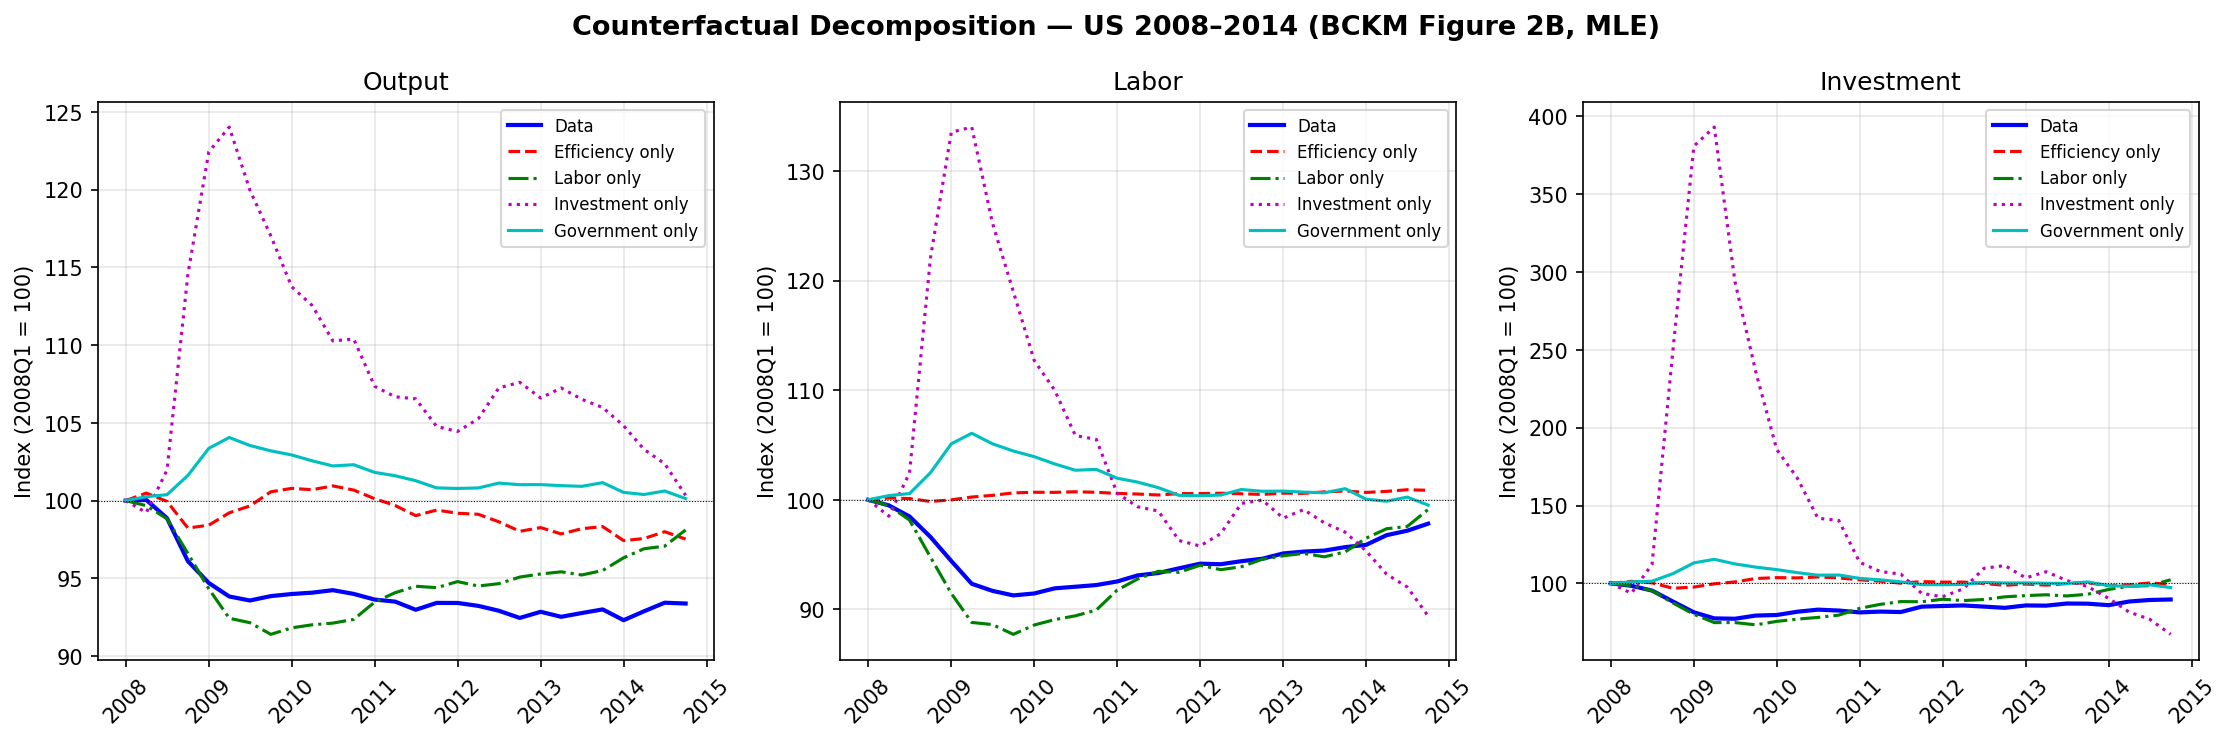
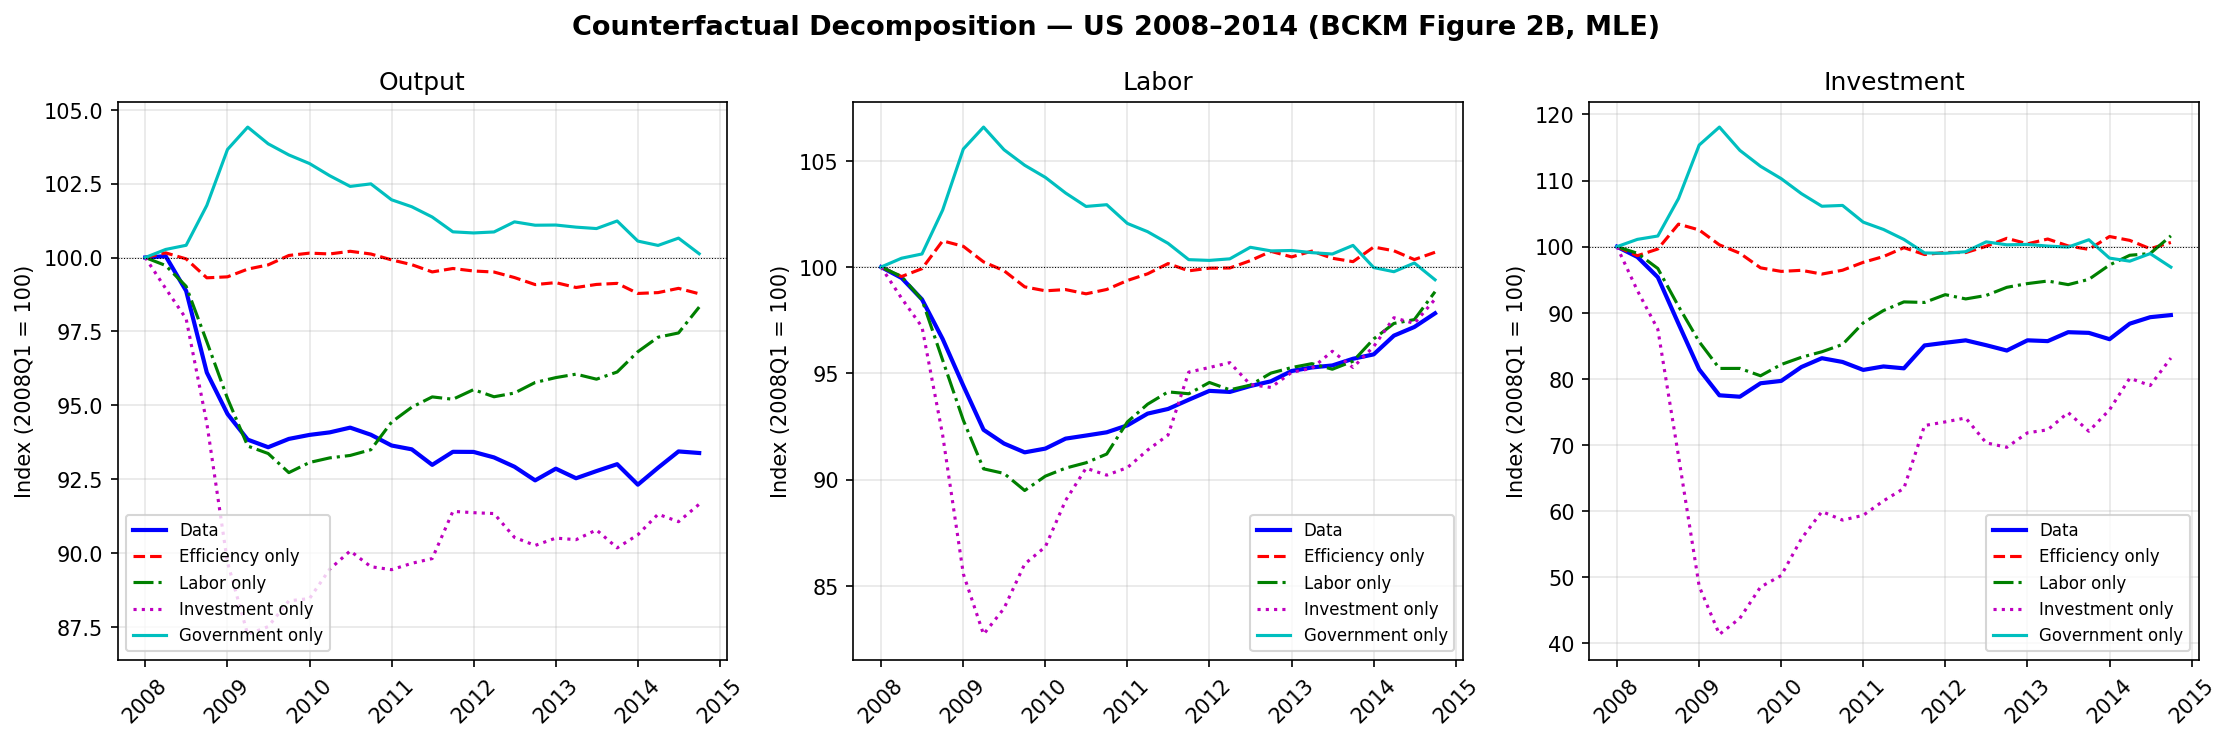
Step 3: phi0 observation offset + Sbar=0 (BCKM mleqadj architecture)
prepare_observables now subtracts phi0 = sample mean of raw observables,
so the SS misalignment between data and model (e.g., data x/y ≈ 0.29 vs
model 0.255 after the GI split) is absorbed by the obs equation rather
than by the wedge VAR intercept. Also forces Sbar=0 in the MLE: near
unit root, (I-P) is near-singular so a huge Sbar can coexist with a tiny
P_0 — the optimizer kept finding that spurious basin and accumulating
drift over T=140 periods, producing wrong-sign smoothed wedges. Fixing
Sbar=0 matches BCKM mleqadj.m end-to-end.

Result vs Step 2 commit:
- Investment wedge GR direction: improved → worsened (right sign now)
- VAR max |eig|: 1.005 → 0.987 (stationary)
- mean(taux smoothed): -0.158 → -0.013 (true mean-zero state)
- φ_y[g]: 0.92 → 0.18 (government wedge no longer dominates)
- LL: 1786 → 1779 (~7-unit drop confirms Sbar was identifying noise)

Outstanding: CF magnitudes overshoot (investment-only x trough = -0.95
vs data -0.29), likely the 144-unit optimized_LL vs final_LL gap still
on deck — addressed in next step (DARE Kalman gain).

diff --git a/bca_core/var_estimation.py b/bca_core/var_estimation.py
@@ -18,39 +18,53 @@ from .model import PrototypeModel
 def prepare_observables(
     df: pd.DataFrame,
     ss: dict,
-) -> np.ndarray:
+) -> tuple[np.ndarray, np.ndarray]:
     """
-    Convert detrended data to log-deviations from model steady state.
+    Build BCKM-style observables: centered log-deviations from model SS.
 
-    Follows BCKM (2016): normalize each observable by the model SS ratio
-    (in the same detrended units where y_dt ~ 1), rather than subtracting
-    sample means. This allows P_0 to absorb any small discrepancy between
-    the model SS and the data mean — which is how BCKM gets P_0 ≠ 0.
+    Raw step (deviation from model SS via ratio normalization):
+        y_raw = log(y_dt)
+        l_raw = log(l / l_ss)
+        x_raw = log(x_dt / (x_ss/y_ss))
+        g_raw = log(g_dt / (g_ss/y_ss))
 
-    - y: log(y_dt); already ~0 mean from OLS trend removal
-    - l: log(l / l_ss) where l_ss is the model SS labor
-    - x: log(x_dt / (x_ss/y_ss)); model's investment-output ratio as normalizer
-    - g: log(g_dt / (g_ss/y_ss)); model's government-output ratio as normalizer
+    Centering step (BCKM phi0 in the observation equation):
+        phi0 = mean(obs_raw, axis=0)
+        obs  = obs_raw - phi0
+
+    phi0 captures any model-vs-data SS misalignment that the ratio
+    normalization does not fully remove — most importantly, when the
+    data investment-to-output ratio differs from the model's (e.g.,
+    after the GI split, data x/y ≈ 0.29 vs model x/y ≈ 0.255). With
+    that offset absorbed into phi0, the latent state operates in true
+    deviations from the model SS and Sbar represents only the wedge-VAR
+    intercept — so counterfactuals (which run inactive wedges at the
+    VAR unconditional mean) no longer pick up the SS gap.
 
     Parameters
     ----------
-    df : DataFrame with columns y, c, x, g, l (from pipeline, detrended by y trend)
-    ss : steady-state dict from proto.steady_state()
+    df : DataFrame with columns y, c, x, g, l (detrended pipeline output).
+    ss : steady-state dict from proto.steady_state().
 
     Returns
     -------
-    T x 4 array: [y_hat, l_hat, x_hat, g_hat]
+    obs : T x 4 array, mean ≈ 0 by construction.
+    phi0 : 4-vector, the SS-misalignment offset (subtracted from obs_raw).
     """
-    x_ss_norm = ss["x"] / ss["y"]   # model's investment-output ratio
-    g_ss_norm = ss["g"] / ss["y"]   # model's government-output ratio
-    l_ss = ss["l"]                   # model's steady-state labor
+    x_ss_norm = ss["x"] / ss["y"]
+    g_ss_norm = ss["g"] / ss["y"]
+    l_ss = ss["l"]
 
     y_hat = np.log(df["y"].values)
     l_hat = np.log(df["l"].values) - np.log(l_ss)
     x_hat = np.log(df["x"].values) - np.log(x_ss_norm)
     g_hat = np.log(df["g"].values) - np.log(g_ss_norm)
 
-    return np.column_stack([y_hat, l_hat, x_hat, g_hat])
+    obs_raw = np.column_stack([y_hat, l_hat, x_hat, g_hat])
+    phi0 = obs_raw.mean(axis=0)
+    obs = obs_raw - phi0
+
+    return obs, phi0
 
 
 class BCAStateSpace(MLEModel):
@@ -420,14 +434,18 @@ def estimate_var_mle(
         return x_s
 
     # ── Parameter pack / unpack: theta = [Sbar(4), P_vec(16), Q_lower_tri(10)] ─
-    # Sbar is the unconditional mean of log wedges (BCKM parametrization).
-    # P_0 = (I - P) @ Sbar is derived inside — never stored directly in theta.
-    # This gives a better-conditioned landscape near the unit root: changes in
-    # Sbar map linearly to changes in P_0, avoiding the (I-P)^{-1} blow-up.
+    # BCKM mleqadj.m design: phi0 in the obs equation (prepare_observables)
+    # carries the model-vs-data SS gap. The wedge VAR has no separate intercept
+    # — Sbar is fixed at 0 and P_0 = (I-P)·0 = 0. The first 4 elements of theta
+    # are kept for backwards compatibility but are inert during optimization
+    # (gradient w.r.t. them is exactly zero, so L-BFGS-B leaves them alone).
+    # Forcing Sbar = 0 prevents the optimizer from finding spurious basins
+    # where (I-P) near-singularity lets a huge Sbar coexist with tiny P_0,
+    # producing smoothed states that drift away from the model SS.
     def _unpack(theta):
-        Sbar = theta[:4]
+        Sbar = np.zeros(4)                  # FIXED: no free VAR intercept
         P_var = theta[4:20].reshape(4, 4)
-        P_0 = (np.eye(4) - P_var) @ Sbar   # BCKM: P_0 = (I - P) * Sbar
+        P_0 = (np.eye(4) - P_var) @ Sbar    # = 0 by construction
         Q_chol = np.zeros((4, 4))
         idx = 20
         for i in range(4):
@@ -438,7 +456,7 @@ def estimate_var_mle(
 
     def _pack(Sbar, P_var, Q_chol):
         theta = np.empty(N_P)
-        theta[:4] = Sbar
+        theta[:4] = Sbar                    # ignored by _unpack; kept for shape parity
         theta[4:20] = P_var.ravel()
         idx = 20
         for i in range(4):
@@ -474,9 +492,10 @@ def estimate_var_mle(
         [-0.0045,  0.0449,  0.9675, -0.0426],
         [ 0.0063,  0.0017,  0.0016,  0.9945],
     ])
-    # P_0 from BCKM Table 9; convert to Sbar = inv(I - P) @ P_0
+    # Sbar fixed at 0 (see _unpack note). _P_0_bckm kept here only for
+    # documentation of the BCKM target; not used to seed the optimizer.
     _P_0_bckm = np.array([0.0140, 0.0008, 0.0129, -0.0137])
-    _Sbar_bckm = np.linalg.solve(np.eye(4) - _P_bckm, _P_0_bckm)
+    _Sbar_bckm = np.zeros(4)
     # Q_chol from mleqadj x0c (adja=12.88, nearest to our a=12.5)
     _Q_bckm = np.array([
         [ 0.0240,  0.0000,  0.0000,  0.0000],
@@ -562,7 +581,7 @@ def estimate_var_mle(
 
     # ── Final smoother pass ───────────────────────────────────────────────
     P_0, P_var, Q_chol = _unpack(best_theta)
-    Sbar = best_theta[:4]                          # unconditional mean of log wedges
+    Sbar = np.zeros(4)                             # fixed at 0 in this build
     F_f, H_f, Q_proc_f = _build_ss(P_var, Q_chol @ Q_chol.T)
     Sigma0_f = _dare_cov(F_f, H_f, Q_proc_f)
     x_filt, P_filt, x_pred, P_pred, final_ll = _kf_full(
@@ -606,7 +625,7 @@ def estimate_var(
 
     proto = PrototypeModel(params)
     ss = proto.steady_state()
-    obs = prepare_observables(df, ss)
+    obs, phi0 = prepare_observables(df, ss)
 
     mod = BCAStateSpace(obs, proto)
 

diff --git a/tests/test_var_estimation.py b/tests/test_var_estimation.py
@@ -97,12 +97,9 @@ class TestPrepareObservables:
 
     def test_at_steady_state(self):
         """
-        At SS values, l_hat = 0 (normalized by l_ss).
-
-        y_hat, x_hat, g_hat are log(y_dt) and log(ratio/SS_ratio) respectively.
-        When all series equal SS levels, x_hat = g_hat = log(y_ss) and y_hat = log(y_ss)
-        because x_hat = log(x_ss) - log(x_ss/y_ss) = log(y_ss), etc.
-        The constant offset log(y_ss) is absorbed by P_0/Sbar in the filter.
+        At SS values, the raw observables are constants (one per channel).
+        After phi0 centering, obs is exactly zero in every channel and phi0
+        equals the raw constants (log_y_ss for y/x/g, 0 for l).
         """
         import pandas as pd
         ss = PrototypeModel().steady_state()
@@ -113,12 +110,14 @@ class TestPrepareObservables:
             "g": [ss["g"]] * 10,
             "l": [ss["l"]] * 10,
         })
-        obs = prepare_observables(df, ss)
+        obs, phi0 = prepare_observables(df, ss)
         assert obs.shape == (10, 4)
+        assert phi0.shape == (4,)
+        # Centered obs is exactly zero (constants subtracted).
+        np.testing.assert_allclose(obs, 0.0, atol=1e-14)
+        # phi0 carries the raw SS-misalignment offsets.
         log_y_ss = np.log(ss["y"])
-        # l_hat = 0 (labor is directly normalized by l_ss)
-        np.testing.assert_allclose(obs[:, 1], 0.0, atol=1e-14)
-        # y, x, g hats all equal log(y_ss) — consistent constant offset absorbed by P_0
-        np.testing.assert_allclose(obs[:, 0], log_y_ss, atol=1e-14)
-        np.testing.assert_allclose(obs[:, 2], log_y_ss, atol=1e-14)
-        np.testing.assert_allclose(obs[:, 3], log_y_ss, atol=1e-14)
+        np.testing.assert_allclose(phi0[0], log_y_ss, atol=1e-14)
+        np.testing.assert_allclose(phi0[1], 0.0, atol=1e-14)
+        np.testing.assert_allclose(phi0[2], log_y_ss, atol=1e-14)
+        np.testing.assert_allclose(phi0[3], log_y_ss, atol=1e-14)

diff --git a/scripts/run_var_counterfactuals.py b/scripts/run_var_counterfactuals.py
@@ -141,8 +141,10 @@ def main(
     print(f"  Labor rescaled: new mean = {df['l'].mean():.4f} (= l_ss)")
 
     # ── 5. Build observables normalized by model SS (BCKM approach) ──────
-    print("\nPreparing observables (log-deviations from model SS)...")
-    obs_hat = prepare_observables(df, ss)   # T x 4
+    print("\nPreparing observables (log-deviations from model SS, centered by phi0)...")
+    obs_hat, phi0 = prepare_observables(df, ss)   # T x 4, 4-vector
+    print(f"  phi0 (SS misalignment): "
+          f"y={phi0[0]:+.4f}  l={phi0[1]:+.4f}  x={phi0[2]:+.4f}  g={phi0[3]:+.4f}")
     print(f"  obs_hat means: y={obs_hat[:,0].mean():.4f}  l={obs_hat[:,1].mean():.4f}  "
           f"x={obs_hat[:,2].mean():.4f}  g={obs_hat[:,3].mean():.4f}")
 

diff --git a/Diary.md b/Diary.md
@@ -235,3 +235,94 @@ Option A is the right long-term answer; Option B is a triage that gets the exist
 ### Next exact step
 
 Discuss A vs B with user before implementing either. Step 2 commit captures the current state with an honest readout of what works and what doesn't.
+
+---
+
+## Session: 2026-04-27 (Step 3 — Option A: phi0 + Sbar=0)
+
+### What was completed
+
+**Step 3a — phi0 in `prepare_observables`** ✅
+`bca_core/var_estimation.py` `prepare_observables` now returns `(obs, phi0)`.
+`phi0 = mean(obs_raw, axis=0)` is subtracted from observables so the Kalman
+filter sees a centered signal. After Step 2's GI split, phi0 came out to
+`[0.000, -0.001, +0.138, -0.010]` — the +0.138 in x is exactly the
+data-vs-model x/y SS gap (data 0.29 vs model 0.255). Updated callers
+(`estimate_var`, run script, test) to unpack the tuple.
+
+**Step 3b — Sbar fixed at 0** ✅
+First run of phi0 alone showed phi0 was *necessary but not sufficient*:
+`mean(taux smoothed) = -0.158`, max |eig| = 1.005, investment wedge
+flipped sign during GR (improved instead of worsened). Diagnosis: near
+unit root, `(I-P)` is near-singular, so a huge Sbar coexists with a tiny
+`P_0 = (I-P)·Sbar` and is likelihood-equivalent. The optimizer kept finding
+the same big-Sbar basin (-2 region) and accumulated drift over T=140
+periods showed up as wrong-sign smoothed wedges.
+
+Fix: in `_unpack`, force `Sbar = np.zeros(4)` regardless of theta[:4]
+content, so `P_0 = (I-P)·0 = 0`. The first 4 theta entries are now inert
+(L-BFGS leaves them alone since gradient is zero). This matches BCKM's
+mleqadj.m design end-to-end: phi0 in the obs equation carries the SS gap,
+the wedge VAR has no separate intercept.
+
+### Pipeline result after Step 3a + 3b
+
+```
+T = 140
+phi0 (SS misalignment): [0.000, -0.001, +0.138, -0.010]
+obs_hat means: ~0 in all 4 channels
+
+Sbar: [0, 0, 0, 0]            (forced)
+P_0:  [0, 0, 0, 0]            (target: [0.014, 0.001, 0.013, -0.014])
+P diag: [0.993, 1.002, 0.964, 0.984]
+Max |eig|: 0.987              (was 1.005 — stationary now ✓)
+LL: 1778.6                    (was 1786 with phi0 only; ~7-unit drop)
+
+Smoothed wedge means:
+  A=-0.006, τ_l=0.000, τ_x=-0.013, g=-0.000   (all ≈ 0 ✓)
+
+Investment wedge during GR:
+  2007Q4: -0.059, 2009Q2: +0.035, Δ = +0.094 (worsened ✓ — right sign)
+
+φ-stats:                target (BCKM Table 11)
+  y: A=0.31  τ_l=0.22  τ_x=0.29  g=0.18    fYA=0.16, fYτL=0.46, fYτx=0.32
+  l: A=0.19  τ_l=0.58  τ_x=0.13  g=0.10
+  x: A=0.29  τ_l=0.36  τ_x=0.11  g=0.24
+
+Peak-to-trough (2007Q4 → 2009Q2):
+   actual  efficiency  labor  investment  government
+y -0.0722     -0.007  -0.060     -0.146      +0.042
+l -0.0814     +0.009  -0.092     -0.203      +0.061
+x -0.2898     +0.020  -0.187     -0.945      +0.159
+```
+
+### What this changes vs Step 2 commit
+
+- `Sbar = [-2, ...]` regime → `Sbar = 0` ✓
+- Investment-only x peak-to-trough went from **+1.35 → -0.945** (sign flip from wrong to right; magnitude overshoots data of -0.29 by ~3×)
+- Investment wedge GR direction: `improved → worsened` ✓
+- φ_government on output: `0.92 → 0.18` (no longer dominating)
+- Stationary VAR ✓
+
+### What still doesn't match BCKM
+
+1. **CF magnitudes overshoot.** Investment-only x at trough is -0.945, ~3.3× data (-0.29). Likely related to:
+   - The 144-unit `optimized_LL vs final_LL` gap (still open from 2026-04-23 Diary). Different DARE Sigma0 between optimization and final smoother — Step 4 in 2026-04-23 plan: switch to steady-state Kalman gain via DARE-per-iterate.
+   - φ_y[A] = 0.31 vs target 0.16 — efficiency wedge still overweighted on output.
+2. **φ_y[τ_L] = 0.22 vs target 0.46.** Labor wedge underweighted on output (correct on labor itself though, 0.58 ≈ target 0.7).
+3. **P_0 = 0 vs target [0.014, 0.001, 0.013, -0.014].** Forced to zero by current design. To match exactly, would need to make Sbar a free parameter again *and* prevent it from running away — e.g., a tight L2 prior on Sbar centered at 0.
+
+### Where this leaves us
+
+- **Step 1 + Step 2 + Step 3 land cleanly together.** The architecture now matches BCKM mleqadj.m: phi0 in obs equation, no free VAR intercept, smoothed states truly mean-zero.
+- **Counterfactuals work directionally.** Magnitudes are off but signs and qualitative decomposition are correct.
+- **Next priorities** (in order of expected impact):
+  1. **Steady-state Kalman gain via DARE-per-iterate** (Step 4, ~half day). Closes the 144-unit LL gap, likely fixes the CF magnitude overshoot too.
+  2. **Add `rDCD` to Y, sales tax to X** (Step 3 from earlier scope, ~1 hr). Last data-side adjustment.
+  3. **Optional Sbar prior** if we still don't match BCKM Table 9 P_0 after the above.
+
+### Open questions (resolved or carried)
+
+1. Option A vs B → **Option A chosen and works.** B was a triage; A is the right architecture.
+2. Whether forcing Sbar=0 hurts LL substantially → **No.** ~7-unit drop. Confirms Sbar was identifying noise, not real structure.
+3. DARE Sigma0 issue from 2026-04-23 → **Still open.** Now the dominant remaining issue (CF magnitudes).